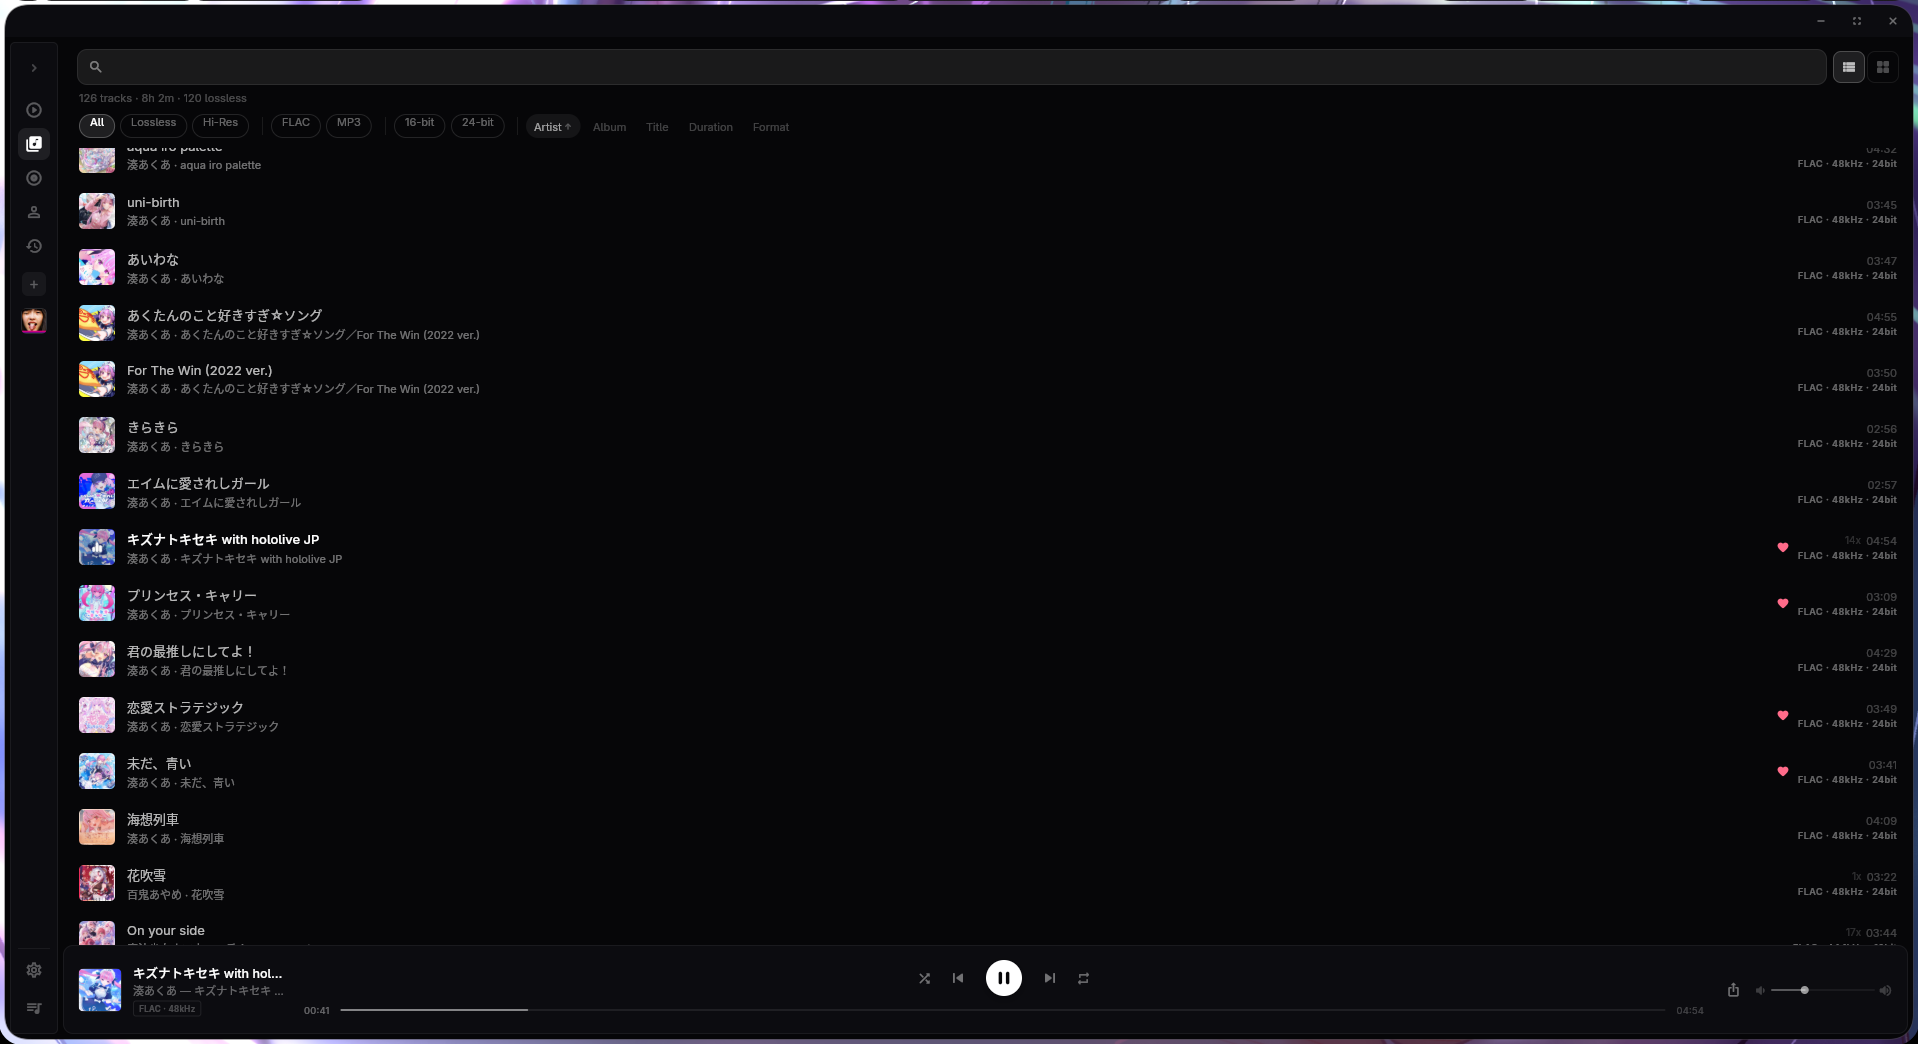
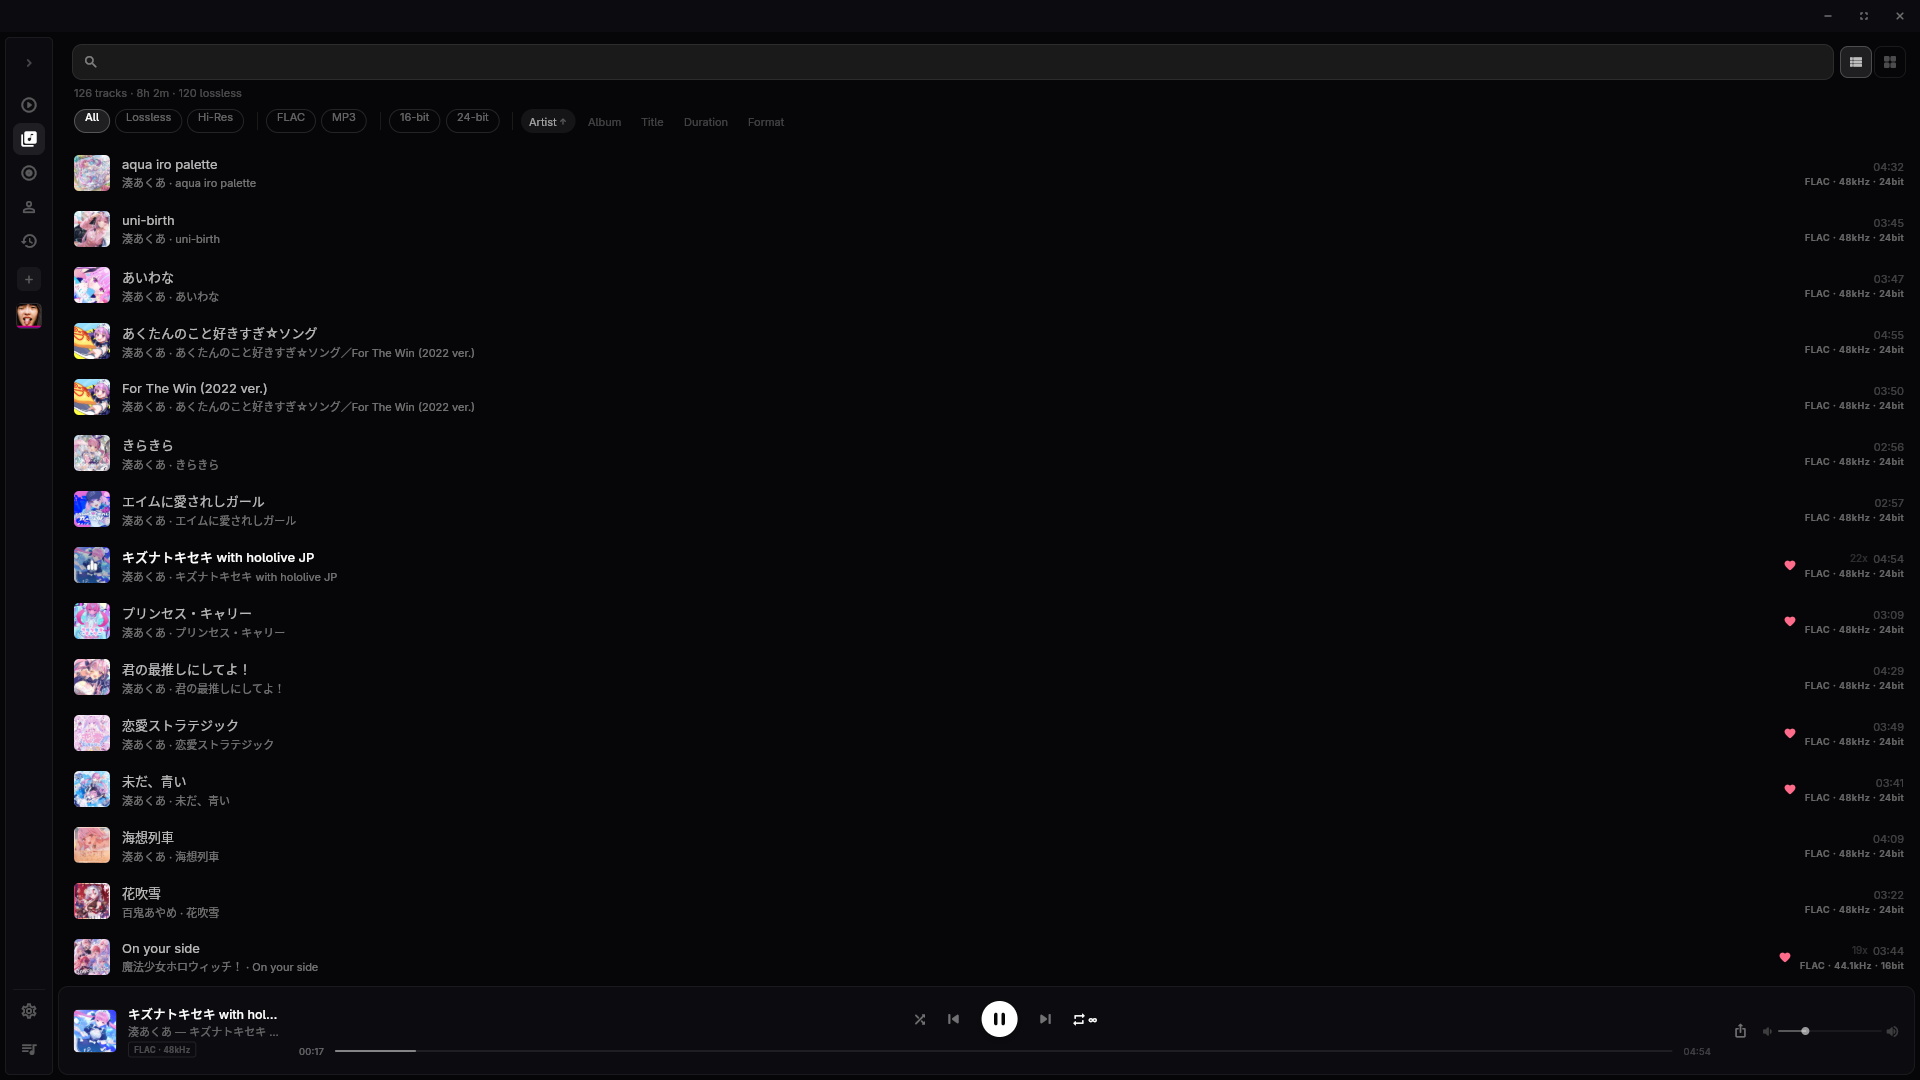
docs: update in app preview

diff --git a/README.md b/README.md
@@ -26,19 +26,18 @@ On Windows, **WASAPI Exclusive** can send the stream straight to the device (no 
 
 ---
 
-<details>
-  <summary>
-    <h2>In App Preview</h2>
-  </summary>
-  <p align="center">
-   <h3>Playing Screen</h3>
-    <img src="assets/preview/playing.png" alt="Now playing" width="920">
-    <h3>Library Screen - Grid</h3>
-    <img src="assets/preview/library_grid.png" alt="Library grid" width="920">
-    <h3>Library Screen - Details</h3>
-    <img src="assets/preview/library_detail.png" alt="Library list" width="920">
-  </p>
-</details>
+## Screenshot
+<div align="center">
+
+| Playing (Default) | Library Detail (Default) | Library Grid (Default)
+| --- | --- | --- |
+| ![Playing](assets/preview/playing.png) | ![Library_Detail](assets/preview/library_detail.png) | ![Library_Grid](assets/preview/library_grid.png) |
+
+| Playing (M3) | Library Detail (M3) | Library Grid (M3) |
+| --- | --- | --- |
+| ![Playing-M3](assets/preview/playing-M3.png) | ![Library_Detail-M3](assets/preview/library_detail-M3.png) | ![Library_Grid-M3](assets/preview/library_grid-M3.png) |
+
+</div>
 
 ---
 
